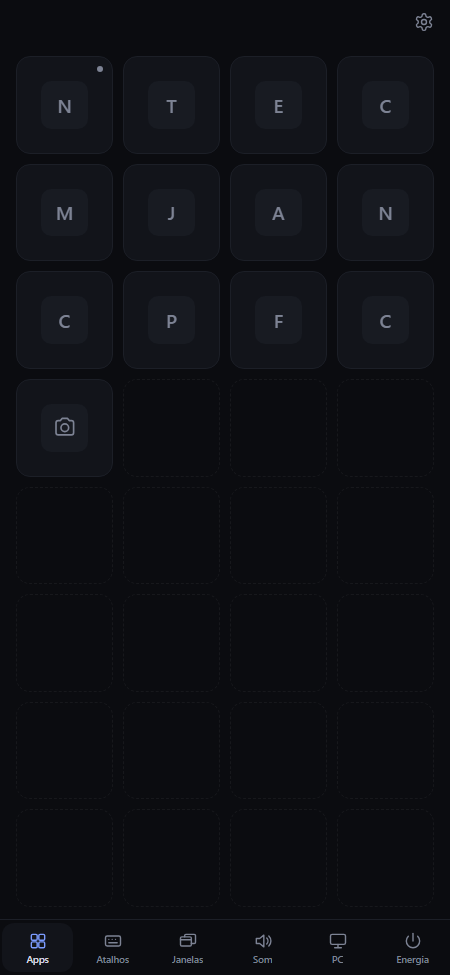
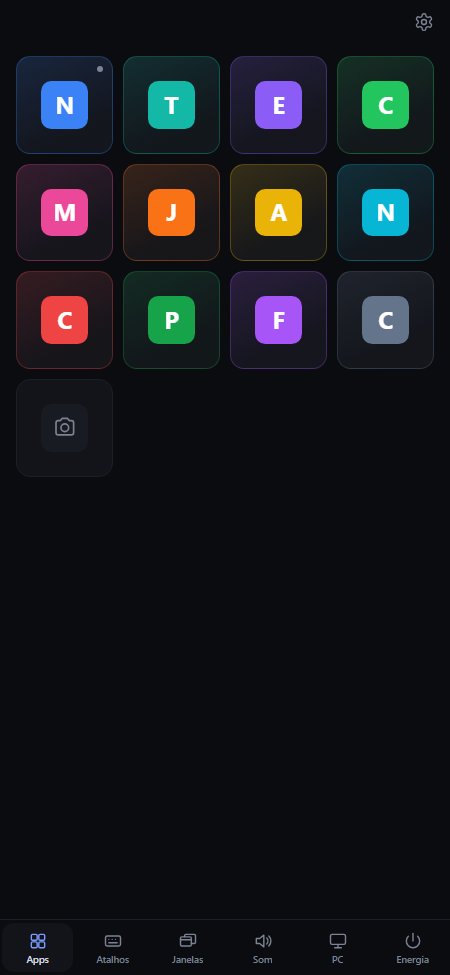
docs(docs): capa e capturas do readme com o visual novo, icones maiores na paisagem

diff --git a/web/src/features/deck/layout.ts b/web/src/features/deck/layout.ts
@@ -82,7 +82,8 @@ export function appsLayout(count: number, base: Base, landscape: boolean): AppsF
   const w = (base.width - (cols - 1) * FIT_GAP) / cols;
   const h = (base.height - (rows - 1) * FIT_GAP) / rows;
   if (w >= FIT_MIN_W && h >= FIT_MIN_H) {
-    return { mode: 'fit', cols, rows, icon: Math.max(24, Math.min(64, w - 12, h - 28)), w: Math.floor(w), h: Math.floor(h) };
+    // landscape keys are tall (two rows): the icon may grow past the 64 px of a small key, up to 96
+    return { mode: 'fit', cols, rows, icon: Math.max(24, Math.min(96, w - 12, h - 28)), w: Math.floor(w), h: Math.floor(h) };
   }
   return { mode: 'scroll', cols, rows, icon: Math.max(24, Math.min(base.icon, w - 12)) };
 }

diff --git a/docs/plano-visual.md b/docs/plano-visual.md
@@ -16,6 +16,15 @@ Convenções: um branch e um PR por lote, empilhados; cada lote termina com `npm
 | 6 | **Aparência escolhível**: cor de destaque e tamanho do texto, guardados no aparelho | `features/appearance` (novo), `styles` | M |
 | 7 | **README com imagem de capa e GIF do tour**, gerados da demonstração | `tools/screenshots`, `docs/img` | P |
 
+## Situação
+
+Os 7 lotes foram feitos, em branches empilhados (`visual-metricas`, `visual-botoes`, `visual-grade`, `visual-som`, `visual-descanso`, `visual-aparencia`, `visual-capa`). Onde o resultado difere do plano:
+
+- **Lote 3:** além de tirar a faixa de espaços vazios (agora só aparecem ao editar), a grade na paisagem passou a ter no mínimo 2 linhas, e o ícone de uma tecla alta pode chegar a 96 px (veio no lote 7, junto das capturas).
+- **Lote 4:** o player maior vale só na paisagem; em pé continua a faixa fina. O limite de altura do teste `sound.e2e` subiu de 100 para 128 px de propósito.
+- **Lote 6:** o texto *Grande* (112 %) é uma escolha da pessoa; os testes de layout continuam rodando no tamanho Normal.
+- **Lote 7:** a capa saiu; o **GIF do tour não**, porque não há ferramenta de vídeo no ambiente de desenvolvimento.
+
 ## Regras do desenho
 
 1. **Cor tem significado.** Cada métrica tem uma cor fixa e a usa em todo lugar onde aparece (título, barra, gráfico). Os alertas continuam amarelo e vermelho e vencem a cor da métrica.

diff --git a/CHANGELOG.md b/CHANGELOG.md
@@ -23,6 +23,7 @@ Como publicar uma versão: [docs/desenvolvimento.md](docs/desenvolvimento.md#pub
 
 ### Adicionado
 
+- **Imagens do README**: a capa e as capturas foram refeitas com o visual novo (ícones coloridos nas teclas, gráficos com histórico); `node tools/screenshots/run.cjs` gera tudo, inclusive a capa. Na paisagem o ícone de uma tecla alta pode chegar a 96 px (era 64). O GIF do tour ficou de fora: não há como gerá-lo sem uma ferramenta de vídeo.
 - **Visual: aparência escolhível**: menu › *Aparência…* troca a cor de destaque (seis, todas com contraste de leitura conferido por teste) e o tamanho do texto (pequeno, normal, grande); vale na hora, fica guardado no aparelho e vale só nele.
 - **Visual: tela de descanso**: ao escurecer (menu › Escurecer após…) o painel mostra um relógio grande, o dia, o que está tocando e até três valores dos webhooks, em cinza apagado sobre o preto e deslocado alguns pixels a cada minuto (para não marcar a tela AMOLED); o primeiro toque continua só acordando a tela.
 - **Visual: player de Som maior**: na paisagem a capa, o título e o botão de tocar crescem com a altura da tela (a capa vai de 64 a 96 px), com sombra na capa e o nome do app em destaque; em pé o player continua fino.

diff --git a/README.md b/README.md
@@ -5,7 +5,7 @@
 
 Transforma um celular em um painel de controle do seu PC com Windows: abrir programas, disparar atalhos, ajustar o som, controlar a mídia, vigiar o desempenho, organizar janelas, desligar o PC e até usar a câmera do celular como webcam.
 
-![O painel de aplicativos, em paisagem](docs/img/apps.png)
+![Self Stream Deck: o painel de desempenho, o de aplicativos e o de som](docs/img/capa.png)
 
 | | |
 |---|---|
